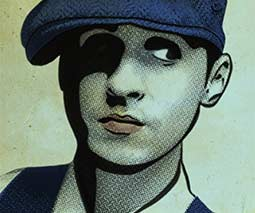
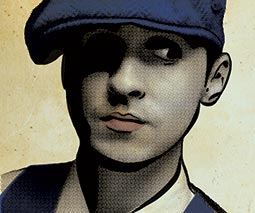
added updated Paul and Josh pics

diff --git a/index.html b/index.html
@@ -639,7 +639,7 @@
             </script>
         </article>
         <article id=anchor5 class="content dark">
-        	<header class="title one">Our Portfolio</header>
+        	<header class="title one">Portfolio</header>
             <!--<div class="spacer"></div>-->
             <div class="title two">We have a diverse range of clients, including brands from Paris, Los Angeles, Bogota, London, Detroit and the world over.</div>
             <div id="portfolio" class="container">
@@ -652,7 +652,7 @@
                           <a href="#filter" data-option-value=".website" class="folio-btn"><div class="portfolio-btn">Website</div></a>
                           <a href="#filter" data-option-value=".dev" class="folio-btn"><div class="portfolio-btn">Development</div></a>
                           <a href="#filter" data-option-value=".brand" class="folio-btn"><div class="portfolio-btn">Branding</div></a>
-                          <a href="#filter" data-option-value=".video" class="folio-btn"><div class="portfolio-btn">Motion</div></a>
+                          <a href="#filter" data-option-value=".motion" class="folio-btn"><div class="portfolio-btn">Motion</div></a>
                         </div>
                     </section>
                     <div class="clear"></div>
@@ -686,7 +686,7 @@
                             </div>
                         </div>-->
                         
-                        <div class="ch-grid element design photo video" id="portfolio-exb-big3.html">
+                        <div class="ch-grid element design photo motion" id="portfolio-exb-big3.html">
                             <img class="ch-item" src="img/portfolio/exchange.jpg" alt='img'>
                             <div>
                             	<span><span class="p-category"></span>The Big 3<span class="cat2">Design / Photography / Motion</span></span>
